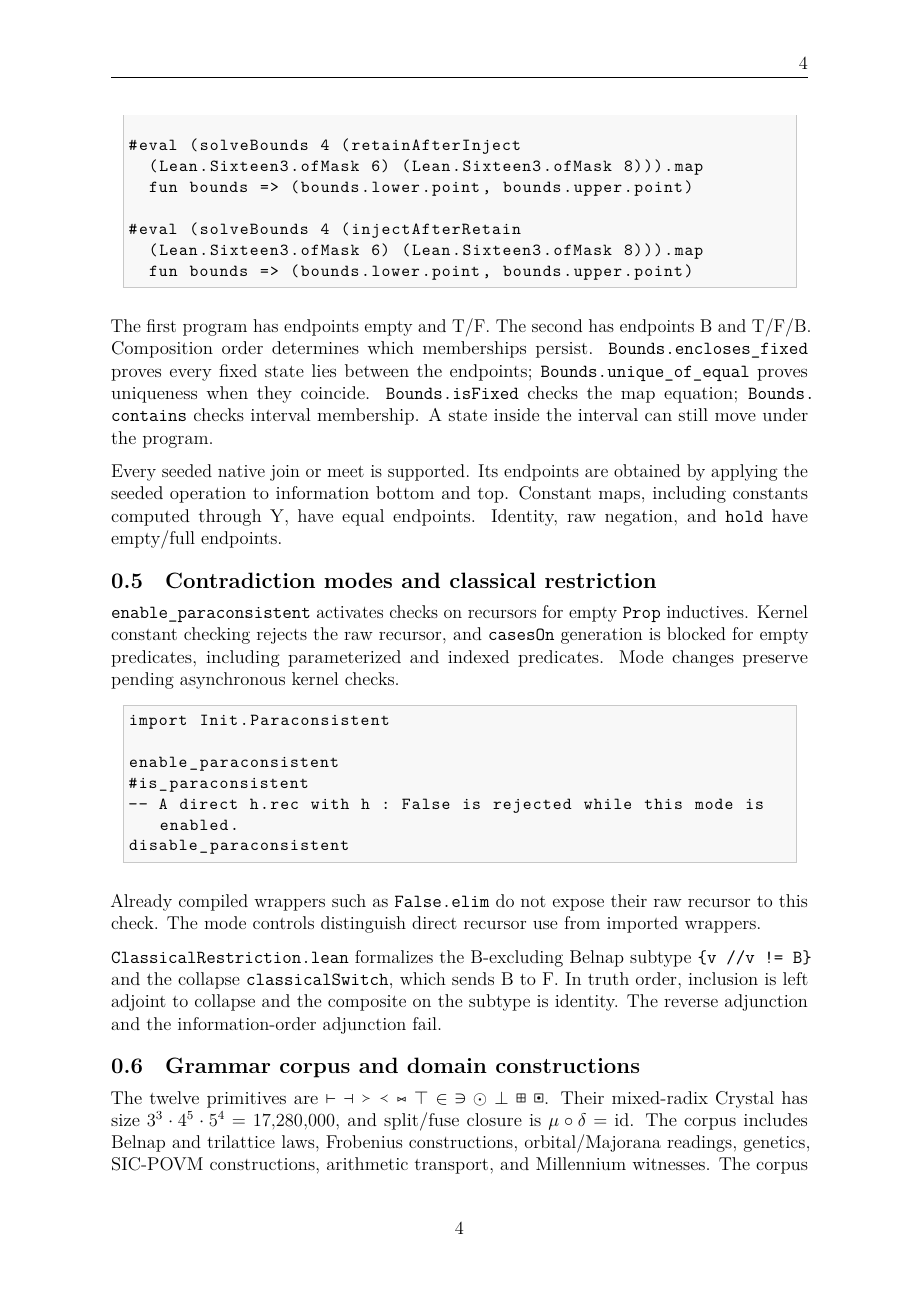
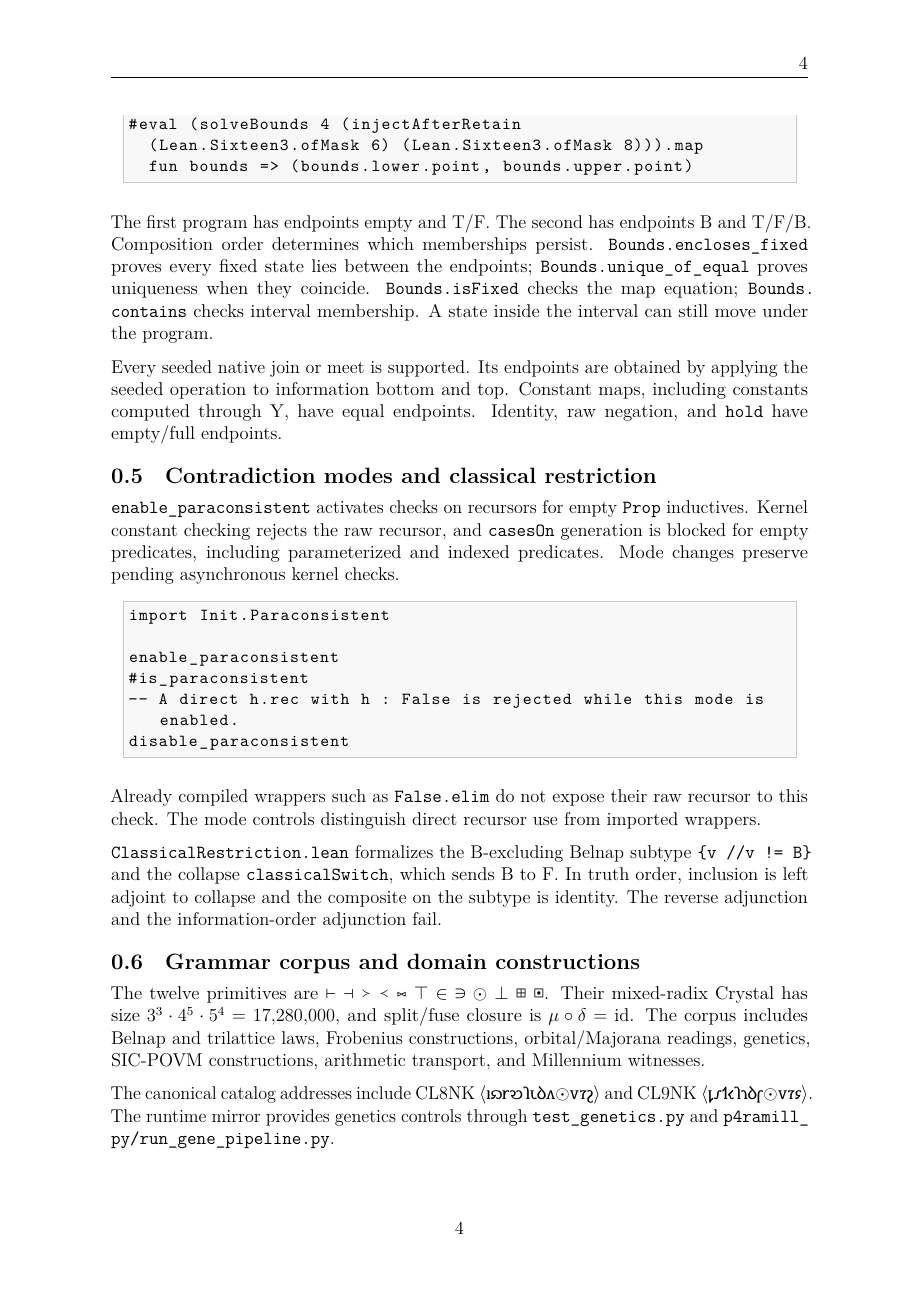
I remove internal references from my public READMEs
I remove measurement directories, internal report citations, private document links, and PDF references from both READMEs. I describe the code, APIs, build commands, and executable checks directly. I verify that the remaining repository links resolve and refresh the README render controls.

diff --git a/README.md b/README.md
@@ -17,7 +17,6 @@ feedback as ticks, or inspect the settled memberships.
 | [`src/`](src/) | Lean kernel fork, native trilattice operations, re-entry declarations, mode controls |
 | [`p4ramill/`](p4ramill/README.md) | Lean corpus, executable combinators, certified fixed points, domain applications |
 | [`tests/`](tests/) | Native carrier, declaration, mode, module, and execution controls |
-| [`measurements/`](measurements/) | Retained build and audit records |
 | [`p4ramill_py/`](p4ramill_py/) | Runtime mirror and genetics pipeline |
 
 ## Use the local kernel
@@ -31,9 +30,7 @@ export PATH="$PWD/../build/stage1/bin:$PATH"
 lake env lean --version
 ```
 
-The [corpus README](p4ramill/README.md) gives sequential, single-worker checks
-for the executable re-entry modules. From the repository root, rebuild the
-kernel with its native CMake targets:
+From the repository root, rebuild the kernel with its native CMake targets:
 
 ```sh
 cmake -S . -B build -DCMAKE_BUILD_TYPE=Release
@@ -46,7 +43,7 @@ full library build.
 
 ## The native carrier and its three orders
 
-The implemented member of the SIXTEEN_# family is
+The implemented member of the ${SIXTEEN}_3$ family is
 
 $$
 \mathrm{SIXTEEN}_3=\mathcal P(\{N,T,F,B\}).
@@ -64,8 +61,6 @@ from the subset containing T and F.
 | Truth `le_t` | T, B | N, F | `join_t`, `meet_t` |
 | Falsity `le_f` | F, B | N, T | `join_f`, `meet_f` |
 
-These are the membership orders of
-[Shramko and Wansing](https://kdpu.edu.ua/shramko/files/2005_JPL_Some_Useful_16-valued_Logics.pdf).
 The command module and corpus use the same `Lean.Sixteen3` as the kernel.
 
 | Implementation | Responsibility |
@@ -190,8 +185,7 @@ The twelve primitives are ⊢ ⊣ ≻ ≺ ⋈ ⊤ ∈ ∋ ⊙ ⊥ ⊞ ⊡. Their
 has size $3^3\cdot4^5\cdot5^4=17{,}280{,}000$, and split/fuse closure is
 $\mu\circ\delta=\mathrm{id}$. The corpus includes Belnap and trilattice laws,
 Frobenius constructions, orbital/Majorana readings, genetics, SIC-POVM
-constructions, arithmetic transport, and Millennium witnesses. The
-[corpus guide](p4ramill/README.md) identifies entry points and audits.
+constructions, arithmetic transport, and Millennium witnesses.
 
 The canonical catalog addresses include CL8NK
 ⟨𐑦𐑸𐑾𐑹𐑐𐑧𐑔𐑵⊙𐑫𐑳𐑟⟩ and CL9NK
@@ -212,23 +206,18 @@ time-linear controls. `NS_ResidualExtension.lean` constructs a smooth
 continuation from all-order cancellation and exterior derivative bounds,
 preserving interior derivative tensors and spatial support.
 
-The [published-profile bridge](p4ramill/PublishedProfile/README.md) imports the
+[`InjectionConnection.lean`](p4ramill/PublishedProfile/InjectionConnection.lean) imports the
 [published construction](https://github.com/openai/NavierStokesAndEuler) under
 its pinned Lean 4.34.0-rc2 toolchain. Its operator comparison equates the local
 coordinate residual with the published Fréchet residual. The actual-profile
 theorem identifies the published candidate's globally smooth force with the
 carried injection at every level for $0<t<1$, continuing through $t=1$ while
-retaining velocity blowup, compact force support, incompressibility, and finite
-energy. The [mathematical exposition](../ig-docs/ns_reentry_injection.md)
-develops the carrier, derivative, cancellation, and continuation statements.
+retaining velocity blowup, compact force support, incompressibility, and finite energy.
 
-## Verification and documentation
+## Run the native checks
 
-Native declaration and runtime controls are retained in
-[`measurements/kernel_features_20261009/`](measurements/kernel_features_20261009/).
-They cover all states, lattice laws, malformed and nonmonotone maps, modes,
-metadata, module serialization, imported reduction, interpreted execution,
-and compiled execution. Direct controls use the built fork:
+The native tests check carrier states, lattice laws, declaration payloads, and
+mode controls. Run them from the repository root using the built fork:
 
 ```sh
 LEAN_PATH=build/stage1/lib/lean build/stage1/bin/lean -j1 tests/lean/run/sixteen3.lean
@@ -237,15 +226,8 @@ LEAN_PATH=build/stage1/lib/lean build/stage1/bin/lean -j1 tests/lean/run/reentry
 LEAN_PATH=build/stage1/lib/lean build/stage1/bin/lean -j1 tests/lean/run/trilatticeMode.lean
 ```
 
-Executable audits live beside their modules. Records in
-[`measurements/temporal_reentry_20261010/`](measurements/temporal_reentry_20261010/)
-cover ticks, contractions, all six operations, composition, native solving,
-and bounds. The endpoint audit checks 665 program maps, every fixed state in
-each table, both settled feedback directions, and candidate rejection controls.
-It also checks a moving state inside a valid interval. The audits print theorem
-dependencies; enclosure, uniqueness, greatest-point program reduction, and
-feedback-settlement theorems have no axioms.
-
-The integrated implementation guide is
-[`trilattice_reentry_kernel.md`](../ig-docs/trilattice_reentry_kernel.md), with
-its [rendered PDF](../ig-docs/trilattice_reentry_kernel.pdf).
+The corpus audit modules check ticks, contractions, all six operations,
+composition, native solving, and fixed-point bounds. They print theorem
+dependencies and check rejection of invalid candidates. The enclosure,
+uniqueness, greatest-point program reduction, and feedback-settlement theorems
+have no axiom dependencies.

diff --git a/p4ramill/README.md b/p4ramill/README.md
@@ -122,25 +122,18 @@ their mathematical scope in their types.
 reading and classifies as Belnap B. `IUTT.State` retains the larger trilattice
 ambient and its truth, falsity, and information lanes.
 
-## Read the checks and the documentation
+## Check theorem dependencies
 
 Audit modules print axiom dependencies and execute concrete controls. The
 bounds audit checks seeded maps, diagonals, constants, Y-computed constants,
 retained negation, and both composition orders. It rejects non-greatest and
-non-fixed candidates and insufficient reduction fuel. Earlier least-point and
-trilattice audits also pass with the shared table helpers. Records are retained in
-[`../measurements/temporal_reentry_20261010/`](../measurements/temporal_reentry_20261010/).
+non-fixed candidates and insufficient reduction fuel. The least-point and
+trilattice audits check the shared table helpers and native operations.
 
 Compiler output identifies declarations that use axioms or `sorry`. Those
 dependencies belong to each theorem statement and audit. Endpoint enclosure,
 uniqueness, greatest-point program reduction, and settled feedback theorems
 print no axiom dependencies.
-
-The [kernel README](../README.md) explains native declarations and mode
-boundaries. The [implementation guide](../../ig-docs/trilattice_reentry_kernel.md)
-develops the carrier, executable calculus, solver, and bounds, with a
-[rendered PDF](../../ig-docs/trilattice_reentry_kernel.pdf). The historical
-inventory and domain theorem details remain in [`README_FULL.md`](README_FULL.md).
 
 ## License
 
